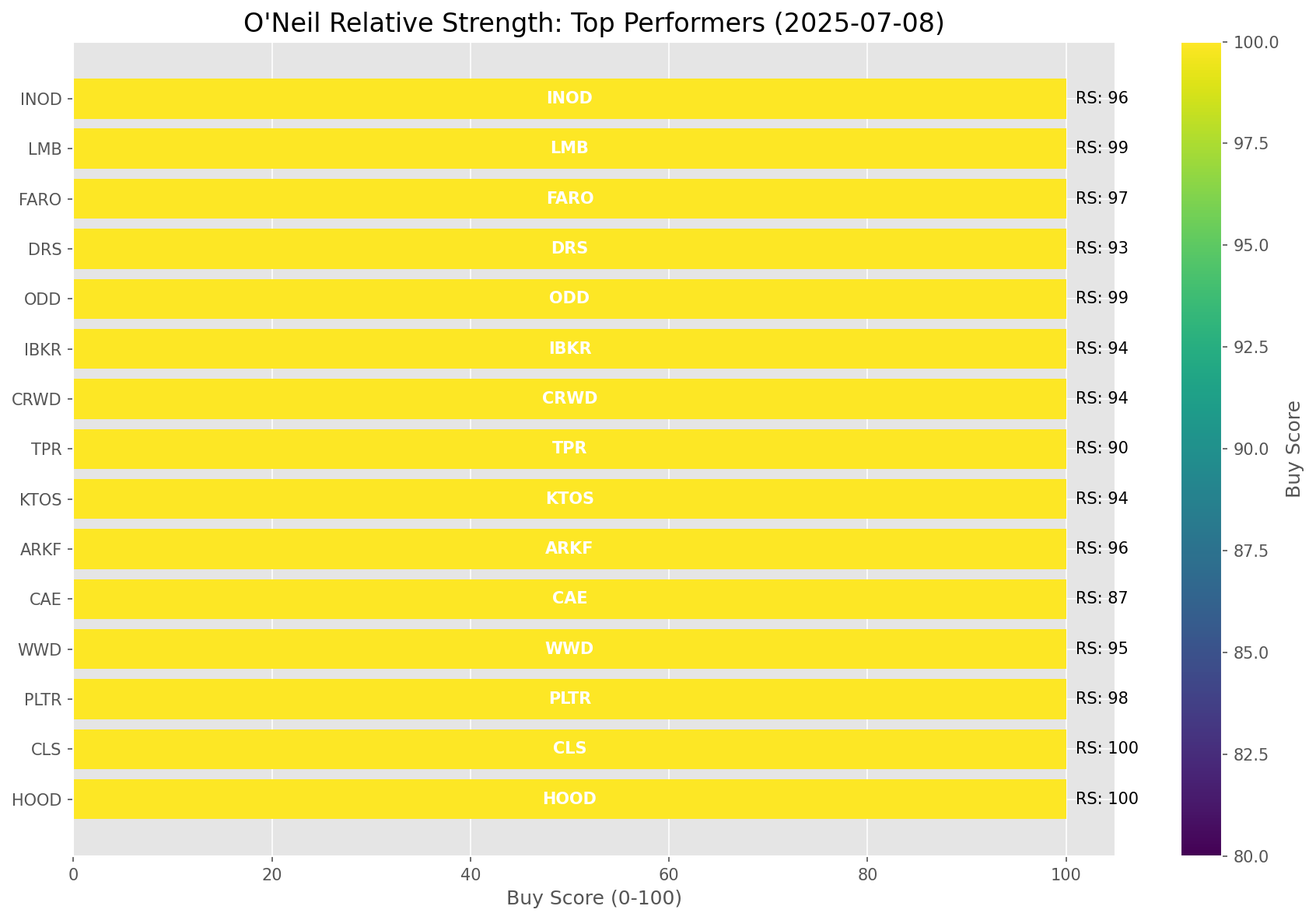
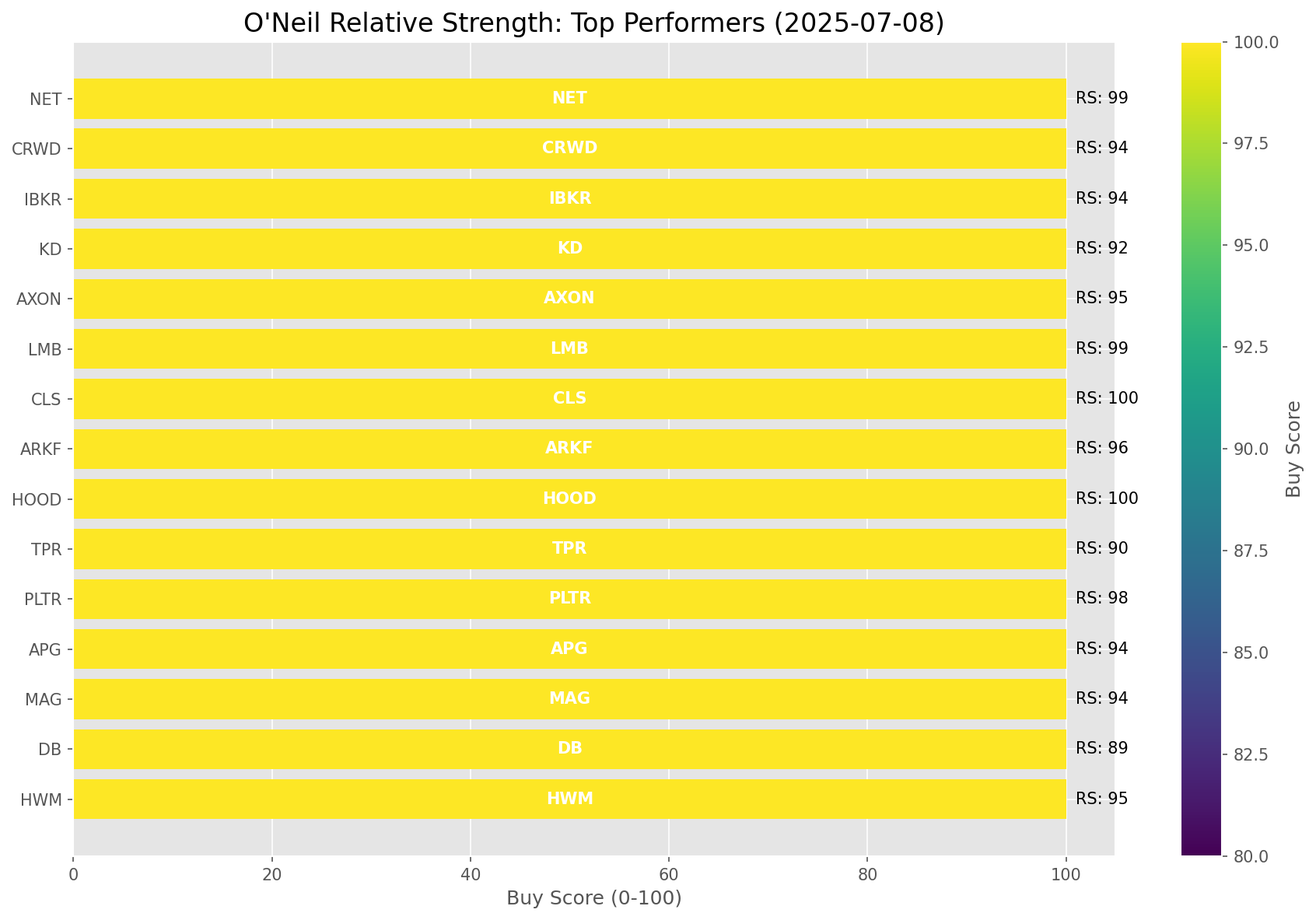
Add market report for 2025-07-08

diff --git a/oneil_relative_strength_report_2025-07-08.md b/oneil_relative_strength_report_2025-07-08.md
@@ -9,11 +9,11 @@
 | Metric | Value |
 |--------|-------|
 | **Market Valuation** | **Overvalued** |
-| **Current Ratio** | 10.21 |
+| **Current Ratio** | 10.19 |
 | **Historical Mean** | 9.41 |
 | **Standard Deviation** | 0.50 |
 | **Z-Score (StdDev from Mean)** | 1.59 |
-| **Total Market Cap** | $305.94 trillion |
+| **Total Market Cap** | $305.38 trillion |
 | **GDP** | $29.96 trillion |
 
 ## **Market Insights**
@@ -49,41 +49,41 @@ Based on William O'Neil's Relative Strength Methodology
 
 | ETF | Strength | RS Rating | Performance | Above Key MAs | Trend | Sector |
 |-----|----------|-----------|-------------|--------------|-------|--------|
-| [ARKK](https://www.tradingview.com/chart/?symbol=ARKK) | 98.5 | 97.0 | 69.12% | 10d ✓, 50d ✓, 200d ✓ | ↗ | Innovation |
-| [ARKF](https://www.tradingview.com/chart/?symbol=ARKF) | 98.0 | 96.0 | 68.60% | 10d ✓, 50d ✓, 200d ✓ | ↗ | Fintech Innovation |
-| [ARKW](https://www.tradingview.com/chart/?symbol=ARKW) | 97.5 | 95.0 | 62.73% | 10d ✓, 50d ✓, 200d ✓ | ↗ | Next Generation Internet |
-| [BLOK](https://www.tradingview.com/chart/?symbol=BLOK) | 96.5 | 93.0 | 53.81% | 10d ✓, 50d ✓, 200d ✓ | ↗ | Blockchain & Cryptocurrency |
-| [XLK](https://www.tradingview.com/chart/?symbol=XLK) | 93.5 | 87.0 | 40.46% | 10d ✓, 50d ✓, 200d ✓ | ↗ | Technology |
-| [AIQ](https://www.tradingview.com/chart/?symbol=AIQ) | 91.5 | 83.0 | 34.86% | 10d ✓, 50d ✓, 200d ✓ | ↗ | Artificial Intelligence & Technology |
-| [JETS](https://www.tradingview.com/chart/?symbol=JETS) | 90.5 | 81.0 | 33.17% | 10d ✓, 50d ✓, 200d ✓ | ↗ | Airlines |
-| [CIBR](https://www.tradingview.com/chart/?symbol=CIBR) | 89.5 | 79.0 | 31.20% | 10d ✓, 50d ✓, 200d ✓ | ↗ | Cybersecurity |
-| [URA](https://www.tradingview.com/chart/?symbol=URA) | 88.6 | 97.0 | 76.13% | 10d ✗, 50d ✓, 200d ✓ | ↗ | Uranium |
-| [PAVE](https://www.tradingview.com/chart/?symbol=PAVE) | 88.5 | 77.0 | 29.43% | 10d ✓, 50d ✓, 200d ✓ | ↗ | Infrastructure |
-| [XLI](https://www.tradingview.com/chart/?symbol=XLI) | 86.0 | 72.0 | 26.26% | 10d ✓, 50d ✓, 200d ✓ | ↗ | Industrial |
-| [XLY](https://www.tradingview.com/chart/?symbol=XLY) | 81.0 | 62.0 | 19.64% | 10d ✓, 50d ✓, 200d ✓ | ↗ | Consumer Discretionary |
-| [XLF](https://www.tradingview.com/chart/?symbol=XLF) | 79.5 | 59.0 | 18.22% | 10d ✓, 50d ✓, 200d ✓ | ↗ | Financial |
-| [SOXX](https://www.tradingview.com/chart/?symbol=SOXX) | 76.5 | 93.0 | 54.59% | 10d ✓, 50d ✓, 200d ✓ | ↘ | Semiconductors |
-| [IYZ](https://www.tradingview.com/chart/?symbol=IYZ) | 73.5 | 47.0 | 12.04% | 10d ✓, 50d ✓, 200d ✓ | ↗ | Telecommunications |
-| [XLC](https://www.tradingview.com/chart/?symbol=XLC) | 73.1 | 66.0 | 22.29% | 10d ✗, 50d ✓, 200d ✓ | ↗ | Communications |
-| [SLV](https://www.tradingview.com/chart/?symbol=SLV) | 73.1 | 66.0 | 21.75% | 10d ✗, 50d ✓, 200d ✓ | ↗ | Silver |
-| [KWEB](https://www.tradingview.com/chart/?symbol=KWEB) | 72.0 | 44.0 | 10.76% | 10d ✓, 50d ✓, 200d ✓ | ↗ | Chinese Internet |
-| [ARKG](https://www.tradingview.com/chart/?symbol=ARKG) | 70.0 | 80.0 | 31.82% | 10d ✓, 50d ✓, 200d ✓ | ↘ | Genomics |
-| [IYT](https://www.tradingview.com/chart/?symbol=IYT) | 65.5 | 71.0 | 25.23% | 10d ✓, 50d ✓, 200d ✓ | ↘ | Transportation |
-| [XLP](https://www.tradingview.com/chart/?symbol=XLP) | 65.0 | 30.0 | 3.91% | 10d ✓, 50d ✓, 200d ✓ | ↗ | Consumer Staples |
-| [ICLN](https://www.tradingview.com/chart/?symbol=ICLN) | 62.5 | 65.0 | 21.24% | 10d ✓, 50d ✓, 200d ✓ | ↘ | Clean Energy |
-| [XLB](https://www.tradingview.com/chart/?symbol=XLB) | 58.0 | 56.0 | 16.94% | 10d ✓, 50d ✓, 200d ✓ | ↘ | Materials |
-| [GLD](https://www.tradingview.com/chart/?symbol=GLD) | 50.2 | 40.0 | 8.55% | 10d ✗, 50d ✗, 200d ✓ | ↗ | Gold |
-| [XLU](https://www.tradingview.com/chart/?symbol=XLU) | 49.7 | 39.0 | 8.20% | 10d ✗, 50d ✗, 200d ✓ | ↗ | Utilities |
-| [DBC](https://www.tradingview.com/chart/?symbol=DBC) | 47.5 | 35.0 | 6.68% | 10d ✓, 50d ✓, 200d ✓ | ↘ | Commodities |
-| [XLE](https://www.tradingview.com/chart/?symbol=XLE) | 42.8 | 46.0 | 11.73% | 10d ✓, 50d ✓, 200d ✗ | ↘ | Energy |
-| [IBB](https://www.tradingview.com/chart/?symbol=IBB) | 42.3 | 45.0 | 11.08% | 10d ✓, 50d ✓, 200d ✗ | ↘ | Biotechnology |
-| [ITB](https://www.tradingview.com/chart/?symbol=ITB) | 34.3 | 29.0 | 3.72% | 10d ✓, 50d ✓, 200d ✗ | ↘ | Home Construction |
-| [XLV](https://www.tradingview.com/chart/?symbol=XLV) | 30.8 | 22.0 | 0.27% | 10d ✓, 50d ✓, 200d ✗ | ↘ | Healthcare |
-| [IYR](https://www.tradingview.com/chart/?symbol=IYR) | 27.4 | 35.0 | 6.60% | 10d ✗, 50d ✓, 200d ✗ | ↘ | Real Estate |
+| [ARKW](https://www.tradingview.com/chart/?symbol=ARKW) | 98.5 | 97.0 | 73.20% | 10d ✓, 50d ✓, 200d ✓ | ↗ | Next Generation Internet |
+| [ARKF](https://www.tradingview.com/chart/?symbol=ARKF) | 98.0 | 96.0 | 69.07% | 10d ✓, 50d ✓, 200d ✓ | ↗ | Fintech Innovation |
+| [ARKK](https://www.tradingview.com/chart/?symbol=ARKK) | 98.0 | 96.0 | 69.34% | 10d ✓, 50d ✓, 200d ✓ | ↗ | Innovation |
+| [BLOK](https://www.tradingview.com/chart/?symbol=BLOK) | 97.0 | 94.0 | 56.47% | 10d ✓, 50d ✓, 200d ✓ | ↗ | Blockchain & Cryptocurrency |
+| [XLK](https://www.tradingview.com/chart/?symbol=XLK) | 93.5 | 87.0 | 40.43% | 10d ✓, 50d ✓, 200d ✓ | ↗ | Technology |
+| [AIQ](https://www.tradingview.com/chart/?symbol=AIQ) | 91.5 | 83.0 | 34.92% | 10d ✓, 50d ✓, 200d ✓ | ↗ | Artificial Intelligence & Technology |
+| [JETS](https://www.tradingview.com/chart/?symbol=JETS) | 90.0 | 80.0 | 33.03% | 10d ✓, 50d ✓, 200d ✓ | ↗ | Airlines |
+| [CIBR](https://www.tradingview.com/chart/?symbol=CIBR) | 89.5 | 79.0 | 31.31% | 10d ✓, 50d ✓, 200d ✓ | ↗ | Cybersecurity |
+| [URA](https://www.tradingview.com/chart/?symbol=URA) | 89.1 | 98.0 | 78.34% | 10d ✗, 50d ✓, 200d ✓ | ↗ | Uranium |
+| [PAVE](https://www.tradingview.com/chart/?symbol=PAVE) | 88.5 | 77.0 | 29.77% | 10d ✓, 50d ✓, 200d ✓ | ↗ | Infrastructure |
+| [XLI](https://www.tradingview.com/chart/?symbol=XLI) | 86.0 | 72.0 | 26.47% | 10d ✓, 50d ✓, 200d ✓ | ↗ | Industrial |
+| [SLV](https://www.tradingview.com/chart/?symbol=SLV) | 83.5 | 67.0 | 22.62% | 10d ✓, 50d ✓, 200d ✓ | ↗ | Silver |
+| [XLY](https://www.tradingview.com/chart/?symbol=XLY) | 80.0 | 60.0 | 19.38% | 10d ✓, 50d ✓, 200d ✓ | ↗ | Consumer Discretionary |
+| [XLF](https://www.tradingview.com/chart/?symbol=XLF) | 79.0 | 58.0 | 18.38% | 10d ✓, 50d ✓, 200d ✓ | ↗ | Financial |
+| [SOXX](https://www.tradingview.com/chart/?symbol=SOXX) | 76.5 | 93.0 | 54.73% | 10d ✓, 50d ✓, 200d ✓ | ↘ | Semiconductors |
+| [XLC](https://www.tradingview.com/chart/?symbol=XLC) | 73.1 | 66.0 | 22.19% | 10d ✗, 50d ✓, 200d ✓ | ↗ | Communications |
+| [IYZ](https://www.tradingview.com/chart/?symbol=IYZ) | 73.0 | 46.0 | 12.04% | 10d ✓, 50d ✓, 200d ✓ | ↗ | Telecommunications |
+| [KWEB](https://www.tradingview.com/chart/?symbol=KWEB) | 71.5 | 43.0 | 10.67% | 10d ✓, 50d ✓, 200d ✓ | ↗ | Chinese Internet |
+| [ARKG](https://www.tradingview.com/chart/?symbol=ARKG) | 69.5 | 79.0 | 31.68% | 10d ✓, 50d ✓, 200d ✓ | ↘ | Genomics |
+| [IYT](https://www.tradingview.com/chart/?symbol=IYT) | 65.0 | 70.0 | 24.95% | 10d ✓, 50d ✓, 200d ✓ | ↘ | Transportation |
+| [ICLN](https://www.tradingview.com/chart/?symbol=ICLN) | 62.0 | 64.0 | 21.33% | 10d ✓, 50d ✓, 200d ✓ | ↘ | Clean Energy |
+| [XLU](https://www.tradingview.com/chart/?symbol=XLU) | 59.6 | 39.0 | 8.69% | 10d ✗, 50d ✓, 200d ✓ | ↗ | Utilities |
+| [XLB](https://www.tradingview.com/chart/?symbol=XLB) | 58.0 | 56.0 | 17.26% | 10d ✓, 50d ✓, 200d ✓ | ↘ | Materials |
+| [XLP](https://www.tradingview.com/chart/?symbol=XLP) | 54.1 | 28.0 | 3.75% | 10d ✓, 50d ✗, 200d ✓ | ↗ | Consumer Staples |
+| [XLE](https://www.tradingview.com/chart/?symbol=XLE) | 53.5 | 47.0 | 12.40% | 10d ✓, 50d ✓, 200d ✓ | ↘ | Energy |
+| [GLD](https://www.tradingview.com/chart/?symbol=GLD) | 50.2 | 40.0 | 8.83% | 10d ✗, 50d ✗, 200d ✓ | ↗ | Gold |
+| [DBC](https://www.tradingview.com/chart/?symbol=DBC) | 47.5 | 35.0 | 6.97% | 10d ✓, 50d ✓, 200d ✓ | ↘ | Commodities |
+| [IBB](https://www.tradingview.com/chart/?symbol=IBB) | 41.3 | 43.0 | 10.45% | 10d ✓, 50d ✓, 200d ✗ | ↘ | Biotechnology |
+| [ITB](https://www.tradingview.com/chart/?symbol=ITB) | 33.3 | 27.0 | 3.39% | 10d ✓, 50d ✓, 200d ✗ | ↘ | Home Construction |
+| [IYR](https://www.tradingview.com/chart/?symbol=IYR) | 26.9 | 34.0 | 6.42% | 10d ✗, 50d ✓, 200d ✗ | ↘ | Real Estate |
 | [DBA](https://www.tradingview.com/chart/?symbol=DBA) | 25.0 | 10.0 | -5.41% | 10d ✗, 50d ✗, 200d ✗ | ↗ | Agriculture |
-| [UUP](https://www.tradingview.com/chart/?symbol=UUP) | 15.9 | 12.0 | -4.02% | 10d ✓, 50d ✗, 200d ✗ | ↘ | U.S. Dollar |
-| [BIL](https://www.tradingview.com/chart/?symbol=BIL) | 10.0 | 20.0 | 0.03% | 10d ✗, 50d ✗, 200d ✗ | ↘ | Short-term Treasuries |
-| [TLT](https://www.tradingview.com/chart/?symbol=TLT) | 4.0 | 8.0 | -7.65% | 10d ✗, 50d ✗, 200d ✗ | ↘ | Long-term Treasuries |
+| [XLV](https://www.tradingview.com/chart/?symbol=XLV) | 18.9 | 18.0 | -0.44% | 10d ✗, 50d ✓, 200d ✗ | ↘ | Healthcare |
+| [UUP](https://www.tradingview.com/chart/?symbol=UUP) | 15.4 | 11.0 | -4.07% | 10d ✓, 50d ✗, 200d ✗ | ↘ | U.S. Dollar |
+| [BIL](https://www.tradingview.com/chart/?symbol=BIL) | 10.0 | 20.0 | 0.04% | 10d ✗, 50d ✗, 200d ✗ | ↘ | Short-term Treasuries |
+| [TLT](https://www.tradingview.com/chart/?symbol=TLT) | 4.0 | 8.0 | -7.82% | 10d ✗, 50d ✗, 200d ✗ | ↘ | Long-term Treasuries |
 
 ### **Sector ETF Performance Interpretation**
 
@@ -98,152 +98,168 @@ This table shows the relative strength metrics for different market sectors base
 
 ### **Current Sector Leadership**
 
-The current market leadership is coming from the following sectors: **Innovation, Fintech Innovation, Next Generation Internet**.
+The current market leadership is coming from the following sectors: **Next Generation Internet, Fintech Innovation, Innovation**.
 
-The **Innovation** sector (represented by **ARKK**) is showing particularly strong relative strength with an RS rating of 97.0 and performance of 69.12% vs. the S&P 500. This sector is trading above its 10-day, 50-day, 200-day moving average(s). Investors should consider focusing on high RS stocks within these leading sectors for potential outperformance.
+The **Next Generation Internet** sector (represented by **ARKW**) is showing particularly strong relative strength with an RS rating of 97.0 and performance of 73.20% vs. the S&P 500. This sector is trading above its 10-day, 50-day, 200-day moving average(s). Investors should consider focusing on high RS stocks within these leading sectors for potential outperformance.
 
 ---
 
 ## **Buy Recommendations**
 
-The following 35 stocks show exceptional relative strength:
+The following 41 stocks show exceptional relative strength:
 
 | RS Rating | Buy Score | Current Price | Chart | Name | Ticker |
 |-----------|-----------|---------------|-------|------|--------|
-| 100 | 100 | $91.88 | [Chart](https://www.tradingview.com/chart/?symbol=HOOD) | Robinhood Markets, Inc. Class A Common Stock | HOOD |
-| 100 | 100 | $155.38 | [Chart](https://www.tradingview.com/chart/?symbol=CLS) | Celestica, Inc. | CLS |
-| 100 | 100 | $265.31 | [Chart](https://www.tradingview.com/chart/?symbol=DAVE) | Dave Inc. Class A Common Stock | DAVE |
-| 100 | 100 | $173.34 | [Chart](https://www.tradingview.com/chart/?symbol=SEZL) | Sezzle Inc. Common Stock | SEZL |
-| 99 | 100 | $74.40 | [Chart](https://www.tradingview.com/chart/?symbol=ODD) | ODDITY Tech Ltd. Class A Ordinary Shares | ODD |
+| 100 | 100 | $92.43 | [Chart](https://www.tradingview.com/chart/?symbol=HOOD) | Robinhood Markets, Inc. Class A Common Stock | HOOD |
+| 100 | 100 | $155.34 | [Chart](https://www.tradingview.com/chart/?symbol=CLS) | Celestica, Inc. | CLS |
+| 100 | 100 | $170.90 | [Chart](https://www.tradingview.com/chart/?symbol=SEZL) | Sezzle Inc. Common Stock | SEZL |
+| 100 | 100 | $263.85 | [Chart](https://www.tradingview.com/chart/?symbol=DAVE) | Dave Inc. Class A Common Stock | DAVE |
 | 99 | 100 | $148.26 | [Chart](https://www.tradingview.com/chart/?symbol=LMB) | Limbach Holdings, Inc Common Stock | LMB |
-| 99 | 100 | $348.17 | [Chart](https://www.tradingview.com/chart/?symbol=CVNA) | Carvana Co. | CVNA |
-| 99 | 100 | $191.45 | [Chart](https://www.tradingview.com/chart/?symbol=NET) | Cloudflare, Inc. Class A common stock, par value $0.001 per share | NET |
-| 99 | 100 | $526.50 | [Chart](https://www.tradingview.com/chart/?symbol=GEV) | GE Vernova Inc. | GEV |
-| 98 | 100 | $137.29 | [Chart](https://www.tradingview.com/chart/?symbol=PLTR) | Palantir Technologies Inc. Class A Common Stock | PLTR |
-| 97 | 100 | $43.99 | [Chart](https://www.tradingview.com/chart/?symbol=FARO) | Faro Technologies Inc | FARO |
-| 96 | 100 | $50.21 | [Chart](https://www.tradingview.com/chart/?symbol=ARKF) | ARK Fintech Innovation ETF | ARKF |
-| 96 | 100 | $50.47 | [Chart](https://www.tradingview.com/chart/?symbol=INOD) | Innodata Inc. | INOD |
-| 95 | 100 | $250.96 | [Chart](https://www.tradingview.com/chart/?symbol=WWD) | Woodward, Inc. | WWD |
-| 94 | 100 | $43.62 | [Chart](https://www.tradingview.com/chart/?symbol=KTOS) | Kratos Defense & Security Solutions, Inc. | KTOS |
-| 94 | 100 | $503.16 | [Chart](https://www.tradingview.com/chart/?symbol=CRWD) | CrowdStrike Holdings, Inc. Class A Common Stock | CRWD |
-| 94 | 100 | $57.08 | [Chart](https://www.tradingview.com/chart/?symbol=IBKR) | Interactive Brokers Group, Inc. Class A Common Stock | IBKR |
-| 94 | 100 | $130.72 | [Chart](https://www.tradingview.com/chart/?symbol=FUTU) | Futu Holdings Limited American Depositary Shares | FUTU |
-| 94 | 100 | $33.98 | [Chart](https://www.tradingview.com/chart/?symbol=APG) | APi Group Corporation | APG |
-| 93 | 100 | $46.06 | [Chart](https://www.tradingview.com/chart/?symbol=DRS) | Leonardo DRS, Inc. Common Stock | DRS |
-| 92 | 100 | $43.64 | [Chart](https://www.tradingview.com/chart/?symbol=KD) | Kyndryl Holdings, Inc. | KD |
-| 90 | 100 | $92.12 | [Chart](https://www.tradingview.com/chart/?symbol=TPR) | Tapestry, Inc. Common Stock | TPR |
-| 87 | 100 | $30.06 | [Chart](https://www.tradingview.com/chart/?symbol=CAE) | CAE INC | CAE |
-| 87 | 100 | $28.39 | [Chart](https://www.tradingview.com/chart/?symbol=SRAD) | Sportradar Group AG Class A Ordinary Shares | SRAD |
-| 84 | 98 | $94.56 | [Chart](https://www.tradingview.com/chart/?symbol=SNEX) | StoneX Group Inc. Common Stock | SNEX |
-| 87 | 97 | $29.89 | [Chart](https://www.tradingview.com/chart/?symbol=NTGR) | NETGEAR, Inc. | NTGR |
-| 86 | 97 | $24.96 | [Chart](https://www.tradingview.com/chart/?symbol=KAR) | OPENLANE, Inc | KAR |
-| 87 | 96 | $65.57 | [Chart](https://www.tradingview.com/chart/?symbol=RYTM) | Rhythm Pharmaceuticals, Inc. Common Stock | RYTM |
-| 85 | 96 | $76.23 | [Chart](https://www.tradingview.com/chart/?symbol=CTVA) | Corteva, Inc. Common Stock | CTVA |
-| 84 | 96 | $59.54 | [Chart](https://www.tradingview.com/chart/?symbol=SHLD) | Global X Defense Tech ETF | SHLD |
-| 84 | 95 | $134.07 | [Chart](https://www.tradingview.com/chart/?symbol=NTES) | NetEase, inc. | NTES |
-| 83 | 93 | $35.34 | [Chart](https://www.tradingview.com/chart/?symbol=ATAT) | Atour Lifestyle Holdings Limited American Depositary Shares | ATAT |
-| 82 | 92 | $81.36 | [Chart](https://www.tradingview.com/chart/?symbol=WFC) | Wells Fargo & Co. | WFC |
-| 81 | 92 | $5699.56 | [Chart](https://www.tradingview.com/chart/?symbol=BKNG) | Booking Holdings Inc. Common Stock | BKNG |
-| 81 | 91 | $267.55 | [Chart](https://www.tradingview.com/chart/?symbol=FDN) | First Trust Dow Jones Internet Index Fund ETF | FDN |
+| 99 | 100 | $192.22 | [Chart](https://www.tradingview.com/chart/?symbol=NET) | Cloudflare, Inc. Class A common stock, par value $0.001 per share | NET |
+| 99 | 100 | $532.26 | [Chart](https://www.tradingview.com/chart/?symbol=GEV) | GE Vernova Inc. | GEV |
+| 99 | 100 | $345.04 | [Chart](https://www.tradingview.com/chart/?symbol=CVNA) | Carvana Co. | CVNA |
+| 98 | 100 | $139.28 | [Chart](https://www.tradingview.com/chart/?symbol=PLTR) | Palantir Technologies Inc. Class A Common Stock | PLTR |
+| 97 | 100 | $51.60 | [Chart](https://www.tradingview.com/chart/?symbol=INOD) | Innodata Inc. | INOD |
+| 97 | 100 | $43.97 | [Chart](https://www.tradingview.com/chart/?symbol=FARO) | Faro Technologies Inc | FARO |
+| 96 | 100 | $50.35 | [Chart](https://www.tradingview.com/chart/?symbol=ARKF) | ARK Fintech Innovation ETF | ARKF |
+| 95 | 100 | $179.82 | [Chart](https://www.tradingview.com/chart/?symbol=HWM) | Howmet Aerospace Inc. | HWM |
+| 95 | 100 | $798.55 | [Chart](https://www.tradingview.com/chart/?symbol=AXON) | Axon Enterprise, Inc. Common Stock | AXON |
+| 95 | 100 | $252.14 | [Chart](https://www.tradingview.com/chart/?symbol=WWD) | Woodward, Inc. | WWD |
+| 94 | 100 | $21.30 | [Chart](https://www.tradingview.com/chart/?symbol=MAG) | MAG Silver Corp. | MAG |
+| 94 | 100 | $34.14 | [Chart](https://www.tradingview.com/chart/?symbol=APG) | APi Group Corporation | APG |
+| 94 | 100 | $57.38 | [Chart](https://www.tradingview.com/chart/?symbol=IBKR) | Interactive Brokers Group, Inc. Class A Common Stock | IBKR |
+| 94 | 100 | $506.62 | [Chart](https://www.tradingview.com/chart/?symbol=CRWD) | CrowdStrike Holdings, Inc. Class A Common Stock | CRWD |
+| 94 | 100 | $44.38 | [Chart](https://www.tradingview.com/chart/?symbol=KTOS) | Kratos Defense & Security Solutions, Inc. | KTOS |
+| 94 | 100 | $131.50 | [Chart](https://www.tradingview.com/chart/?symbol=FUTU) | Futu Holdings Limited American Depositary Shares | FUTU |
+| 93 | 100 | $46.46 | [Chart](https://www.tradingview.com/chart/?symbol=DRS) | Leonardo DRS, Inc. Common Stock | DRS |
+| 92 | 100 | $43.55 | [Chart](https://www.tradingview.com/chart/?symbol=KD) | Kyndryl Holdings, Inc. | KD |
+| 92 | 100 | $30.25 | [Chart](https://www.tradingview.com/chart/?symbol=NTGR) | NETGEAR, Inc. | NTGR |
+| 90 | 100 | $92.02 | [Chart](https://www.tradingview.com/chart/?symbol=TPR) | Tapestry, Inc. Common Stock | TPR |
+| 89 | 100 | $29.43 | [Chart](https://www.tradingview.com/chart/?symbol=DB) | Deutsche Bank Aktiengesellschaft | DB |
+| 87 | 100 | $28.54 | [Chart](https://www.tradingview.com/chart/?symbol=SRAD) | Sportradar Group AG Class A Ordinary Shares | SRAD |
+| 86 | 99 | $29.99 | [Chart](https://www.tradingview.com/chart/?symbol=CAE) | CAE INC | CAE |
+| 86 | 99 | $18.34 | [Chart](https://www.tradingview.com/chart/?symbol=BCS) | Barclays PLC | BCS |
+| 84 | 98 | $95.15 | [Chart](https://www.tradingview.com/chart/?symbol=SNEX) | StoneX Group Inc. Common Stock | SNEX |
+| 86 | 97 | $25.03 | [Chart](https://www.tradingview.com/chart/?symbol=KAR) | OPENLANE, Inc | KAR |
+| 84 | 96 | $59.78 | [Chart](https://www.tradingview.com/chart/?symbol=SHLD) | Global X Defense Tech ETF | SHLD |
+| 86 | 95 | $65.14 | [Chart](https://www.tradingview.com/chart/?symbol=RYTM) | Rhythm Pharmaceuticals, Inc. Common Stock | RYTM |
+| 84 | 95 | $76.17 | [Chart](https://www.tradingview.com/chart/?symbol=CTVA) | Corteva, Inc. Common Stock | CTVA |
+| 83 | 94 | $134.00 | [Chart](https://www.tradingview.com/chart/?symbol=NTES) | NetEase, inc. | NTES |
+| 83 | 93 | $35.29 | [Chart](https://www.tradingview.com/chart/?symbol=ATAT) | Atour Lifestyle Holdings Limited American Depositary Shares | ATAT |
+| 83 | 93 | $111.53 | [Chart](https://www.tradingview.com/chart/?symbol=SPMO) | Invesco S&P 500 Momentum ETF | SPMO |
+| 82 | 92 | $81.79 | [Chart](https://www.tradingview.com/chart/?symbol=WFC) | Wells Fargo & Co. | WFC |
+| 81 | 92 | $5726.00 | [Chart](https://www.tradingview.com/chart/?symbol=BKNG) | Booking Holdings Inc. Common Stock | BKNG |
+| 81 | 91 | $267.30 | [Chart](https://www.tradingview.com/chart/?symbol=FDN) | First Trust Dow Jones Internet Index Fund ETF | FDN |
+| 81 | 90 | $28.70 | [Chart](https://www.tradingview.com/chart/?symbol=PAAS) | Pan American Silver Corp. | PAAS |
 
 ---
 
 
 ## **Sell Recommendations**
 
-The following 89 stocks show deteriorating relative strength:
+The following 99 stocks show deteriorating relative strength:
 
 | RS Rating | Sell Score | Current Price | Chart | Name | Ticker |
 |-----------|------------|---------------|-------|------|--------|
-| 1 | 100 | $25.25 | [Chart](https://www.tradingview.com/chart/?symbol=QID) | ProShares UltraShort QQQ | QID |
-| 1 | 100 | $16.53 | [Chart](https://www.tradingview.com/chart/?symbol=SDS) | ProShares UltraShort S&P500 | SDS |
-| 1 | 100 | $14.20 | [Chart](https://www.tradingview.com/chart/?symbol=NVDS) | Investment Managers Series Trust II Tradr 1.5X Short NVDA Daily ETF | NVDS |
 | 1 | 100 | $25.83 | [Chart](https://www.tradingview.com/chart/?symbol=TECS) | Direxion Daily Technology Bear 3x Shares | TECS |
-| 1 | 100 | $40.90 | [Chart](https://www.tradingview.com/chart/?symbol=SDOW) | ProShares UltraPro Short Dow 30 | SDOW |
-| 2 | 100 | $35.41 | [Chart](https://www.tradingview.com/chart/?symbol=SARK) | Investment Managers Series Trust II Tradr 1X Short Innovation Daily ETF | SARK |
-| 2 | 100 | $19.57 | [Chart](https://www.tradingview.com/chart/?symbol=BITI) | ProShares Short Bitcoin ETF | BITI |
-| 2 | 100 | $24.02 | [Chart](https://www.tradingview.com/chart/?symbol=DXD) | ProShares UltraShort Dow 30 | DXD |
-| 2 | 100 | $33.64 | [Chart](https://www.tradingview.com/chart/?symbol=PSQ) | ProShares Short QQQ | PSQ |
-| 2 | 100 | $10.17 | [Chart](https://www.tradingview.com/chart/?symbol=HPK) | HighPeak Energy, Inc. Common Stock | HPK |
-| 2 | 100 | $10.38 | [Chart](https://www.tradingview.com/chart/?symbol=EMBC) | Embecta Corp. Common Stock | EMBC |
-| 2 | 100 | $13.18 | [Chart](https://www.tradingview.com/chart/?symbol=IART) | Integra LifeSciences Holdings | IART |
-| 3 | 100 | $44.70 | [Chart](https://www.tradingview.com/chart/?symbol=LINE) | Lineage, Inc. Common Stock | LINE |
-| 3 | 100 | $39.55 | [Chart](https://www.tradingview.com/chart/?symbol=SH) | ProShares Short S&P500 | SH |
-| 3 | 100 | $35.92 | [Chart](https://www.tradingview.com/chart/?symbol=IBTA) | Ibotta, Inc. | IBTA |
+| 1 | 100 | $25.27 | [Chart](https://www.tradingview.com/chart/?symbol=QID) | ProShares UltraShort QQQ | QID |
+| 1 | 100 | $16.55 | [Chart](https://www.tradingview.com/chart/?symbol=SDS) | ProShares UltraShort S&P500 | SDS |
+| 1 | 100 | $14.23 | [Chart](https://www.tradingview.com/chart/?symbol=NVDS) | Investment Managers Series Trust II Tradr 1.5X Short NVDA Daily ETF | NVDS |
+| 1 | 100 | $40.99 | [Chart](https://www.tradingview.com/chart/?symbol=SDOW) | ProShares UltraPro Short Dow 30 | SDOW |
+| 2 | 100 | $13.08 | [Chart](https://www.tradingview.com/chart/?symbol=IART) | Integra LifeSciences Holdings | IART |
+| 2 | 100 | $10.30 | [Chart](https://www.tradingview.com/chart/?symbol=EMBC) | Embecta Corp. Common Stock | EMBC |
+| 2 | 100 | $19.44 | [Chart](https://www.tradingview.com/chart/?symbol=BITI) | ProShares Short Bitcoin ETF | BITI |
+| 2 | 100 | $33.66 | [Chart](https://www.tradingview.com/chart/?symbol=PSQ) | ProShares Short QQQ | PSQ |
+| 2 | 100 | $24.06 | [Chart](https://www.tradingview.com/chart/?symbol=DXD) | ProShares UltraShort Dow 30 | DXD |
+| 2 | 100 | $25.24 | [Chart](https://www.tradingview.com/chart/?symbol=ZSL) | ProShares UltraShort Silver | ZSL |
+| 2 | 100 | $35.34 | [Chart](https://www.tradingview.com/chart/?symbol=SARK) | Investment Managers Series Trust II Tradr 1X Short Innovation Daily ETF | SARK |
 | 3 | 100 | $139.74 | [Chart](https://www.tradingview.com/chart/?symbol=KRYS) | Krystal Biotech, Inc. Common Stock | KRYS |
-| 4 | 100 | $51.07 | [Chart](https://www.tradingview.com/chart/?symbol=ASGN) | ASGN Incorporated | ASGN |
-| 4 | 100 | $25.38 | [Chart](https://www.tradingview.com/chart/?symbol=DOG) | ProShares Short Dow30 | DOG |
+| 3 | 100 | $39.57 | [Chart](https://www.tradingview.com/chart/?symbol=SH) | ProShares Short S&P500 | SH |
+| 3 | 100 | $24.89 | [Chart](https://www.tradingview.com/chart/?symbol=CRTO) | Criteo S.A. | CRTO |
+| 3 | 100 | $43.84 | [Chart](https://www.tradingview.com/chart/?symbol=LINE) | Lineage, Inc. Common Stock | LINE |
+| 3 | 100 | $35.50 | [Chart](https://www.tradingview.com/chart/?symbol=IBTA) | Ibotta, Inc. | IBTA |
+| 4 | 100 | $25.40 | [Chart](https://www.tradingview.com/chart/?symbol=DOG) | ProShares Short Dow30 | DOG |
 | 4 | 100 | $12.75 | [Chart](https://www.tradingview.com/chart/?symbol=CCRN) | Cross Country Healthcare Inc | CCRN |
-| 4 | 100 | $10.23 | [Chart](https://www.tradingview.com/chart/?symbol=LBTYK) | Liberty Global Ltd. Class C Common Shares | LBTYK |
-| 4 | 100 | $24.97 | [Chart](https://www.tradingview.com/chart/?symbol=CRTO) | Criteo S.A. | CRTO |
-| 5 | 100 | $17.18 | [Chart](https://www.tradingview.com/chart/?symbol=HP) | Helmerich & Payne, Inc. | HP |
+| 4 | 100 | $10.24 | [Chart](https://www.tradingview.com/chart/?symbol=LBTYK) | Liberty Global Ltd. Class C Common Shares | LBTYK |
+| 4 | 100 | $50.86 | [Chart](https://www.tradingview.com/chart/?symbol=ASGN) | ASGN Incorporated | ASGN |
+| 5 | 100 | $63.33 | [Chart](https://www.tradingview.com/chart/?symbol=ZROZ) | PIMCO 25+ Year Zero Coupon U.S. Treasury Index Exchange-Traded Fund | ZROZ |
+| 5 | 100 | $17.24 | [Chart](https://www.tradingview.com/chart/?symbol=HP) | Helmerich & Payne, Inc. | HP |
+| 5 | 100 | $51.70 | [Chart](https://www.tradingview.com/chart/?symbol=LW) | Lamb Weston Holdings, Inc. | LW |
 | 5 | 100 | $14.54 | [Chart](https://www.tradingview.com/chart/?symbol=VRE) | Veris Residential, Inc. | VRE |
-| 5 | 100 | $52.11 | [Chart](https://www.tradingview.com/chart/?symbol=LW) | Lamb Weston Holdings, Inc. | LW |
-| 6 | 100 | $64.07 | [Chart](https://www.tradingview.com/chart/?symbol=ZROZ) | PIMCO 25+ Year Zero Coupon U.S. Treasury Index Exchange-Traded Fund | ZROZ |
-| 6 | 100 | $17.90 | [Chart](https://www.tradingview.com/chart/?symbol=APLS) | Apellis Pharmaceuticals, Inc. Common Stock | APLS |
-| 6 | 100 | $82.34 | [Chart](https://www.tradingview.com/chart/?symbol=LNTH) | Lantheus Holdings, Inc | LNTH |
-| 7 | 100 | $27.17 | [Chart](https://www.tradingview.com/chart/?symbol=GTY) | Getty Realty Corp. | GTY |
+| 5 | 100 | $49.71 | [Chart](https://www.tradingview.com/chart/?symbol=CCOI) | Cogent Communications Holdings, Inc. | CCOI |
+| 6 | 100 | $33.68 | [Chart](https://www.tradingview.com/chart/?symbol=CYTK) | Cytokinetics Inc. | CYTK |
+| 6 | 100 | $13.74 | [Chart](https://www.tradingview.com/chart/?symbol=EIC) | Eagle Point Income Company Inc. | EIC |
+| 6 | 100 | $82.42 | [Chart](https://www.tradingview.com/chart/?symbol=LNTH) | Lantheus Holdings, Inc | LNTH |
+| 6 | 100 | $17.86 | [Chart](https://www.tradingview.com/chart/?symbol=APLS) | Apellis Pharmaceuticals, Inc. Common Stock | APLS |
+| 8 | 100 | $52.18 | [Chart](https://www.tradingview.com/chart/?symbol=CNMD) | CONMED Corporation | CNMD |
 | 8 | 100 | $45.54 | [Chart](https://www.tradingview.com/chart/?symbol=CWT) | California Water Service | CWT |
-| 8 | 100 | $85.75 | [Chart](https://www.tradingview.com/chart/?symbol=TLT) | iShares 20+ Year Treasury Bond ETF | TLT |
-| 8 | 100 | $85.60 | [Chart](https://www.tradingview.com/chart/?symbol=SIGI) | Selective Insurance Group | SIGI |
-| 9 | 100 | $38.56 | [Chart](https://www.tradingview.com/chart/?symbol=LKQ) | LKQ Corporation | LKQ |
-| 10 | 100 | $52.73 | [Chart](https://www.tradingview.com/chart/?symbol=CNMD) | CONMED Corporation | CNMD |
-| 11 | 100 | $40.68 | [Chart](https://www.tradingview.com/chart/?symbol=POR) | Portland General Electric Company | POR |
-| 11 | 100 | $131.59 | [Chart](https://www.tradingview.com/chart/?symbol=KMB) | Kimberly-Clark Corp. | KMB |
+| 8 | 100 | $85.58 | [Chart](https://www.tradingview.com/chart/?symbol=TLT) | iShares 20+ Year Treasury Bond ETF | TLT |
+| 9 | 100 | $38.48 | [Chart](https://www.tradingview.com/chart/?symbol=LKQ) | LKQ Corporation | LKQ |
+| 11 | 100 | $40.76 | [Chart](https://www.tradingview.com/chart/?symbol=POR) | Portland General Electric Company | POR |
+| 11 | 100 | $131.18 | [Chart](https://www.tradingview.com/chart/?symbol=KMB) | Kimberly-Clark Corp. | KMB |
+| 11 | 100 | $10.39 | [Chart](https://www.tradingview.com/chart/?symbol=NMZ) | Nuveen Municipal High Income Opportunity Fund | NMZ |
 | 12 | 100 | $10.32 | [Chart](https://www.tradingview.com/chart/?symbol=MUC) | BLACKROCK MUNIHOLDINGS CALIFORNIA QUALITY FUND, INC | MUC |
-| 2 | 99 | $232.59 | [Chart](https://www.tradingview.com/chart/?symbol=MOH) | Molina Healthcare, Inc. | MOH |
-| 6 | 99 | $13.70 | [Chart](https://www.tradingview.com/chart/?symbol=EIC) | Eagle Point Income Company Inc. | EIC |
-| 7 | 99 | $26.41 | [Chart](https://www.tradingview.com/chart/?symbol=VCYT) | Veracyte, Inc. | VCYT |
-| 9 | 99 | $61.77 | [Chart](https://www.tradingview.com/chart/?symbol=ELS) | Equity Lifestyle Properties, Inc. | ELS |
-| 11 | 99 | $10.38 | [Chart](https://www.tradingview.com/chart/?symbol=NMZ) | Nuveen Municipal High Income Opportunity Fund | NMZ |
-| 16 | 99 | $17.89 | [Chart](https://www.tradingview.com/chart/?symbol=ZTO) | ZTO Express (Cayman) Inc. American Depositary Shares, each representing one Class A ordinary share | ZTO |
-| 11 | 98 | $15.07 | [Chart](https://www.tradingview.com/chart/?symbol=SEM) | SELECT MEDICAL HOLDINGS CORP | SEM |
-| 18 | 98 | $29.12 | [Chart](https://www.tradingview.com/chart/?symbol=SPTS) | SPDR Portfolio Short Term Treasury ETF | SPTS |
-| 9 | 97 | $48.63 | [Chart](https://www.tradingview.com/chart/?symbol=SNY) | Sanofi American Depositary Shares (Each representing one-half of one ordinary share) | SNY |
-| 17 | 96 | $15.58 | [Chart](https://www.tradingview.com/chart/?symbol=HQH) | abrdn Healthcare Investors | HQH |
+| 15 | 100 | $17.89 | [Chart](https://www.tradingview.com/chart/?symbol=ZTO) | ZTO Express (Cayman) Inc. American Depositary Shares, each representing one Class A ordinary share | ZTO |
+| 7 | 99 | $27.05 | [Chart](https://www.tradingview.com/chart/?symbol=GTY) | Getty Realty Corp. | GTY |
+| 9 | 99 | $61.72 | [Chart](https://www.tradingview.com/chart/?symbol=ELS) | Equity Lifestyle Properties, Inc. | ELS |
+| 10 | 99 | $15.01 | [Chart](https://www.tradingview.com/chart/?symbol=SEM) | SELECT MEDICAL HOLDINGS CORP | SEM |
+| 7 | 98 | $26.47 | [Chart](https://www.tradingview.com/chart/?symbol=VCYT) | Veracyte, Inc. | VCYT |
+| 8 | 98 | $48.22 | [Chart](https://www.tradingview.com/chart/?symbol=SNY) | Sanofi American Depositary Shares (Each representing one-half of one ordinary share) | SNY |
+| 15 | 98 | $25.27 | [Chart](https://www.tradingview.com/chart/?symbol=SPAB) | SPDR Portfolio Aggregate Bond ETF | SPAB |
+| 18 | 98 | $29.11 | [Chart](https://www.tradingview.com/chart/?symbol=SPTS) | SPDR Portfolio Short Term Treasury ETF | SPTS |
+| 20 | 97 | $86.41 | [Chart](https://www.tradingview.com/chart/?symbol=SIGI) | Selective Insurance Group | SIGI |
 | 7 | 95 | $25.28 | [Chart](https://www.tradingview.com/chart/?symbol=DRV) | Direxion Daily Real Estate Bear 3X Shares | DRV |
 | 10 | 95 | $76.49 | [Chart](https://www.tradingview.com/chart/?symbol=CNS) | Cohen & Steers Inc. | CNS |
-| 10 | 95 | $12.67 | [Chart](https://www.tradingview.com/chart/?symbol=PCN) | PIMCO Corporate & Income Strategy Fund | PCN |
+| 11 | 95 | $76.47 | [Chart](https://www.tradingview.com/chart/?symbol=AWR) | American States Water Company | AWR |
 | 7 | 94 | $129.71 | [Chart](https://www.tradingview.com/chart/?symbol=ICUI) | ICU Medical Inc | ICUI |
-| 9 | 94 | $71.22 | [Chart](https://www.tradingview.com/chart/?symbol=RLI) | RLI Corp. | RLI |
-| 12 | 94 | $76.47 | [Chart](https://www.tradingview.com/chart/?symbol=AWR) | American States Water Company | AWR |
-| 16 | 94 | $15.97 | [Chart](https://www.tradingview.com/chart/?symbol=BNL) | Broadstone Net Lease, Inc. | BNL |
-| 18 | 93 | $32.33 | [Chart](https://www.tradingview.com/chart/?symbol=INVH) | Invitation Homes Inc. Common Stock | INVH |
-| 18 | 93 | $47.21 | [Chart](https://www.tradingview.com/chart/?symbol=KBR) | KBR, Inc. | KBR |
-| 21 | 92 | $83.20 | [Chart](https://www.tradingview.com/chart/?symbol=KSPI) | Joint Stock Company Kaspi.kz American Depository Shares | KSPI |
+| 9 | 94 | $71.42 | [Chart](https://www.tradingview.com/chart/?symbol=RLI) | RLI Corp. | RLI |
+| 16 | 94 | $15.95 | [Chart](https://www.tradingview.com/chart/?symbol=BNL) | Broadstone Net Lease, Inc. | BNL |
+| 12 | 93 | $21.62 | [Chart](https://www.tradingview.com/chart/?symbol=TUA) | Simplify Short Term Treasury Futures Strategy ETF | TUA |
+| 17 | 93 | $32.28 | [Chart](https://www.tradingview.com/chart/?symbol=INVH) | Invitation Homes Inc. Common Stock | INVH |
+| 20 | 92 | $83.17 | [Chart](https://www.tradingview.com/chart/?symbol=KSPI) | Joint Stock Company Kaspi.kz American Depository Shares | KSPI |
 | 12 | 91 | $68.82 | [Chart](https://www.tradingview.com/chart/?symbol=BRC) | Brady Corporation | BRC |
-| 18 | 91 | $13.97 | [Chart](https://www.tradingview.com/chart/?symbol=DOLE) | Dole plc | DOLE |
-| 16 | 89 | $22.95 | [Chart](https://www.tradingview.com/chart/?symbol=SCHZ) | Schwab US Aggregate Bond ETF | SCHZ |
+| 17 | 91 | $13.96 | [Chart](https://www.tradingview.com/chart/?symbol=DOLE) | Dole plc | DOLE |
+| 19 | 91 | $47.45 | [Chart](https://www.tradingview.com/chart/?symbol=KBR) | KBR, Inc. | KBR |
+| 12 | 90 | $26.66 | [Chart](https://www.tradingview.com/chart/?symbol=FCPT) | Four Corners Property Trust, Inc. | FCPT |
+| 13 | 90 | $31.85 | [Chart](https://www.tradingview.com/chart/?symbol=SUPN) | Supernus Pharmaceuticals, Inc. | SUPN |
+| 16 | 90 | $34.47 | [Chart](https://www.tradingview.com/chart/?symbol=PECO) | Phillips Edison & Company, Inc. Common Stock | PECO |
+| 15 | 89 | $22.93 | [Chart](https://www.tradingview.com/chart/?symbol=SCHZ) | Schwab US Aggregate Bond ETF | SCHZ |
+| 15 | 89 | $46.47 | [Chart](https://www.tradingview.com/chart/?symbol=JCPB) | JPMorgan Core Plus Bond ETF | JCPB |
 | 19 | 89 | $22.84 | [Chart](https://www.tradingview.com/chart/?symbol=IBTG) | iShares iBonds Dec 2026 Term Treasury ETF | IBTG |
-| 24 | 89 | $105.35 | [Chart](https://www.tradingview.com/chart/?symbol=DEO) | Diageo plc | DEO |
-| 18 | 88 | $34.70 | [Chart](https://www.tradingview.com/chart/?symbol=PECO) | Phillips Edison & Company, Inc. Common Stock | PECO |
-| 23 | 86 | $340.63 | [Chart](https://www.tradingview.com/chart/?symbol=EG) | Everest Group, Ltd. | EG |
-| 25 | 86 | $61.13 | [Chart](https://www.tradingview.com/chart/?symbol=UL) | Unilever plc | UL |
-| 18 | 85 | $105.36 | [Chart](https://www.tradingview.com/chart/?symbol=DECK) | Deckers Outdoor Corp | DECK |
-| 18 | 84 | $35.20 | [Chart](https://www.tradingview.com/chart/?symbol=LTC) | LTC Properties, Inc. | LTC |
-| 20 | 83 | $110.14 | [Chart](https://www.tradingview.com/chart/?symbol=SHV) | iShares Short Treasury Bond ETF | SHV |
-| 22 | 83 | $35.63 | [Chart](https://www.tradingview.com/chart/?symbol=AMH) | AMERICAN HOMES 4 RENT | AMH |
-| 25 | 83 | $23.12 | [Chart](https://www.tradingview.com/chart/?symbol=IBHF) | iShares iBonds 2026 Term High Yield and Income ETF | IBHF |
-| 23 | 81 | $40.88 | [Chart](https://www.tradingview.com/chart/?symbol=UDR) | UDR, Inc. | UDR |
-| 25 | 81 | $19.11 | [Chart](https://www.tradingview.com/chart/?symbol=MSDL) | Morgan Stanley Direct Lending Fund | MSDL |
-| 25 | 79 | $297.91 | [Chart](https://www.tradingview.com/chart/?symbol=UTHR) | United Therapeutics Corp | UTHR |
-| 29 | 79 | $118.03 | [Chart](https://www.tradingview.com/chart/?symbol=ITGR) | Integer Holdings Corporation | ITGR |
-| 30 | 79 | $194.41 | [Chart](https://www.tradingview.com/chart/?symbol=RGA) | Reinsurance Group of America, Incorporated | RGA |
-| 31 | 77 | $346.83 | [Chart](https://www.tradingview.com/chart/?symbol=SHW) | The Sherwin-Williams Company | SHW |
-| 37 | 77 | $463.87 | [Chart](https://www.tradingview.com/chart/?symbol=LMT) | Lockheed Martin Corp. | LMT |
-| 29 | 76 | $30.87 | [Chart](https://www.tradingview.com/chart/?symbol=AXTA) | Axalta Coating Systems Ltd. | AXTA |
-| 27 | 75 | $70.33 | [Chart](https://www.tradingview.com/chart/?symbol=AZN) | AstraZeneca PLC | AZN |
-| 27 | 75 | $219.41 | [Chart](https://www.tradingview.com/chart/?symbol=MKTX) | MarketAxess Holdings Inc. | MKTX |
-| 34 | 75 | $30.50 | [Chart](https://www.tradingview.com/chart/?symbol=BAX) | Baxter International Inc. | BAX |
-| 28 | 74 | $240.12 | [Chart](https://www.tradingview.com/chart/?symbol=RNR) | RenaissanceRe Holdings Ltd. | RNR |
-| 33 | 74 | $21.33 | [Chart](https://www.tradingview.com/chart/?symbol=SPT) | Sprout Social, Inc Class A Common Stock | SPT |
-| 35 | 74 | $103.47 | [Chart](https://www.tradingview.com/chart/?symbol=FMX) | FOMENTO ECONOMICO MEXICANO, S.A.B. DE C.V. | FMX |
+| 23 | 89 | $105.03 | [Chart](https://www.tradingview.com/chart/?symbol=DEO) | Diageo plc | DEO |
+| 15 | 88 | $97.94 | [Chart](https://www.tradingview.com/chart/?symbol=AGG) | iShares Core U.S. Aggregate Bond ETF | AGG |
+| 16 | 87 | $104.62 | [Chart](https://www.tradingview.com/chart/?symbol=DECK) | Deckers Outdoor Corp | DECK |
+| 24 | 87 | $60.88 | [Chart](https://www.tradingview.com/chart/?symbol=UL) | Unilever plc | UL |
+| 23 | 85 | $340.93 | [Chart](https://www.tradingview.com/chart/?symbol=EG) | Everest Group, Ltd. | EG |
+| 17 | 84 | $20.40 | [Chart](https://www.tradingview.com/chart/?symbol=CON) | Concentra Group Holdings Parent, Inc. | CON |
+| 19 | 84 | $110.14 | [Chart](https://www.tradingview.com/chart/?symbol=SHV) | iShares Short Treasury Bond ETF | SHV |
+| 21 | 84 | $35.58 | [Chart](https://www.tradingview.com/chart/?symbol=AMH) | AMERICAN HOMES 4 RENT | AMH |
+| 25 | 83 | $23.11 | [Chart](https://www.tradingview.com/chart/?symbol=IBHF) | iShares iBonds 2026 Term High Yield and Income ETF | IBHF |
+| 24 | 82 | $19.07 | [Chart](https://www.tradingview.com/chart/?symbol=MSDL) | Morgan Stanley Direct Lending Fund | MSDL |
+| 26 | 82 | $12.69 | [Chart](https://www.tradingview.com/chart/?symbol=PCN) | PIMCO Corporate & Income Strategy Fund | PCN |
+| 22 | 81 | $224.06 | [Chart](https://www.tradingview.com/chart/?symbol=LOW) | Lowe's Companies Inc. | LOW |
+| 23 | 81 | $40.89 | [Chart](https://www.tradingview.com/chart/?symbol=UDR) | UDR, Inc. | UDR |
+| 24 | 81 | $35.18 | [Chart](https://www.tradingview.com/chart/?symbol=LTC) | LTC Properties, Inc. | LTC |
+| 23 | 80 | $295.48 | [Chart](https://www.tradingview.com/chart/?symbol=UTHR) | United Therapeutics Corp | UTHR |
+| 28 | 80 | $117.97 | [Chart](https://www.tradingview.com/chart/?symbol=ITGR) | Integer Holdings Corporation | ITGR |
+| 29 | 80 | $194.41 | [Chart](https://www.tradingview.com/chart/?symbol=RGA) | Reinsurance Group of America, Incorporated | RGA |
+| 24 | 78 | $69.57 | [Chart](https://www.tradingview.com/chart/?symbol=AZN) | AstraZeneca PLC | AZN |
+| 30 | 78 | $346.01 | [Chart](https://www.tradingview.com/chart/?symbol=SHW) | The Sherwin-Williams Company | SHW |
+| 31 | 78 | $30.20 | [Chart](https://www.tradingview.com/chart/?symbol=BAX) | Baxter International Inc. | BAX |
+| 32 | 78 | $777.75 | [Chart](https://www.tradingview.com/chart/?symbol=LLY) | Eli Lilly & Co. | LLY |
+| 39 | 78 | $18.38 | [Chart](https://www.tradingview.com/chart/?symbol=S) | SentinelOne, Inc. | S |
+| 28 | 77 | $30.82 | [Chart](https://www.tradingview.com/chart/?symbol=AXTA) | Axalta Coating Systems Ltd. | AXTA |
+| 37 | 76 | $464.57 | [Chart](https://www.tradingview.com/chart/?symbol=LMT) | Lockheed Martin Corp. | LMT |
+| 27 | 75 | $240.05 | [Chart](https://www.tradingview.com/chart/?symbol=RNR) | RenaissanceRe Holdings Ltd. | RNR |
+| 32 | 75 | $21.28 | [Chart](https://www.tradingview.com/chart/?symbol=SPT) | Sprout Social, Inc Class A Common Stock | SPT |
+| 28 | 73 | $26.19 | [Chart](https://www.tradingview.com/chart/?symbol=TBBB) | BBB Foods Inc. | TBBB |
+| 31 | 73 | $39.22 | [Chart](https://www.tradingview.com/chart/?symbol=LZB) | La-Z-Boy Incorporated | LZB |
+| 32 | 73 | $17.37 | [Chart](https://www.tradingview.com/chart/?symbol=NVCR) | NovoCure Limited Ordinary Shares | NVCR |
+| 32 | 73 | $168.62 | [Chart](https://www.tradingview.com/chart/?symbol=EGP) | EastGroup Properties Inc. | EGP |
 | 33 | 73 | $12.14 | [Chart](https://www.tradingview.com/chart/?symbol=DSL) | DOUBLELINE INCOME SOLUTIONS FUND | DSL |
-| 30 | 72 | $26.29 | [Chart](https://www.tradingview.com/chart/?symbol=TBBB) | BBB Foods Inc. | TBBB |
-| 33 | 72 | $17.43 | [Chart](https://www.tradingview.com/chart/?symbol=NVCR) | NovoCure Limited Ordinary Shares | NVCR |
-| 33 | 71 | $39.48 | [Chart](https://www.tradingview.com/chart/?symbol=LZB) | La-Z-Boy Incorporated | LZB |
-| 36 | 70 | $304.82 | [Chart](https://www.tradingview.com/chart/?symbol=ACN) | Accenture PLC | ACN |
-| 35 | 67 | $25.52 | [Chart](https://www.tradingview.com/chart/?symbol=BRX) | BRIXMOR PROPERTY GROUP INC. | BRX |
+| 35 | 73 | $103.16 | [Chart](https://www.tradingview.com/chart/?symbol=FMX) | FOMENTO ECONOMICO MEXICANO, S.A.B. DE C.V. | FMX |
+| 34 | 72 | $303.28 | [Chart](https://www.tradingview.com/chart/?symbol=ACN) | Accenture PLC | ACN |
+| 34 | 68 | $25.40 | [Chart](https://www.tradingview.com/chart/?symbol=BRX) | BRIXMOR PROPERTY GROUP INC. | BRX |
 
 ## **Methodology**
 
